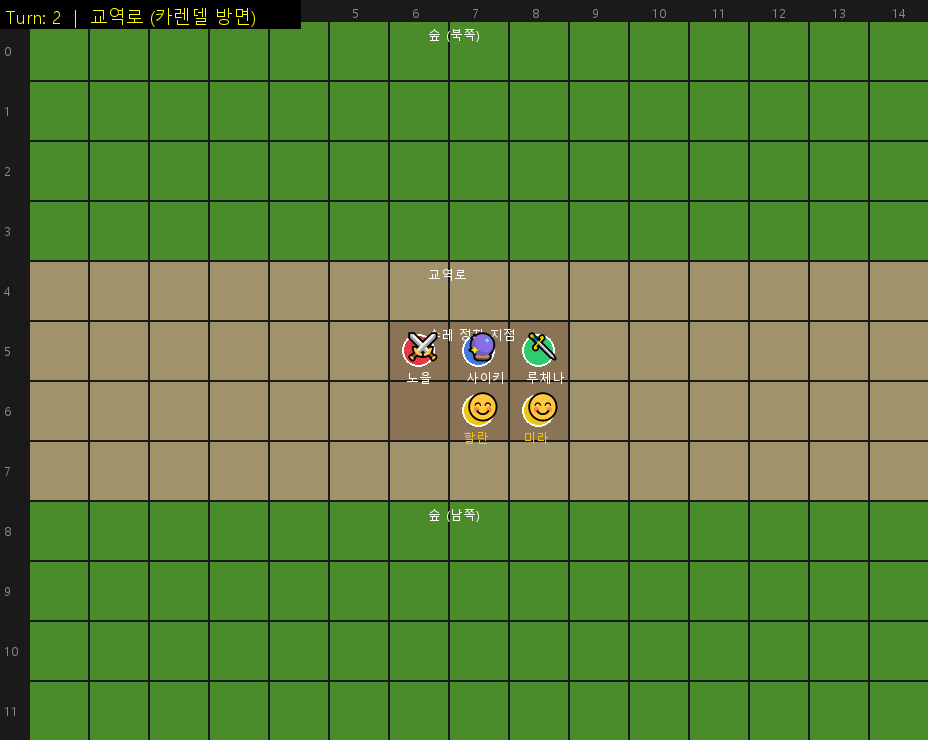
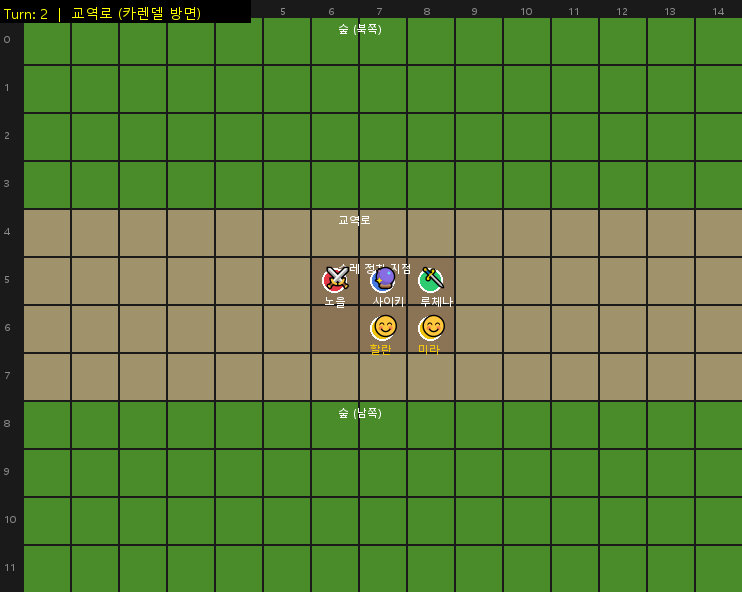
fix: 맵 타일 48px + 미니맵 반경 4 + 아이콘/폰트 축소

diff --git a/map_generator.py b/map_generator.py
@@ -17,7 +17,7 @@ font_paths_global = [
 
 class MapGenerator:
     def __init__(self):
-        self.tile_size = 60
+        self.tile_size = 48
         self.map_width = 20
         self.map_height = 15
         self.img_width = self.map_width * self.tile_size
@@ -54,8 +54,8 @@ class MapGenerator:
             map_h = state["map"]["height"]
             locations = state["map"]["locations"]
 
-        margin_left = 28   # 세로 좌표 표시 여백
-        margin_top = 20    # 가로 좌표 표시 여백
+        margin_left = 22   # 세로 좌표 표시 여백
+        margin_top = 16    # 가로 좌표 표시 여백
         grid_w = map_w * self.tile_size
         grid_h = map_h * self.tile_size
         img_w = grid_w + margin_left
@@ -67,7 +67,7 @@ class MapGenerator:
         coord_font = ImageFont.load_default()
         for fp in font_paths_global:
             try:
-                coord_font = ImageFont.truetype(fp, 12)
+                coord_font = ImageFont.truetype(fp, 10)
                 break
             except (OSError, IOError):
                 continue
@@ -115,8 +115,8 @@ class MapGenerator:
         font = font_small = ImageFont.load_default()
         for fp in font_paths_global:
             try:
-                font = ImageFont.truetype(fp, 18)
-                font_small = ImageFont.truetype(fp, 13)
+                font = ImageFont.truetype(fp, 14)
+                font_small = ImageFont.truetype(fp, 11)
                 break
             except (OSError, IOError):
                 continue
@@ -124,7 +124,7 @@ class MapGenerator:
         # Emoji font for entity icons
         emoji_font = None
         try:
-            emoji_font = ImageFont.truetype("C:/Windows/Fonts/seguiemj.ttf", 26)
+            emoji_font = ImageFont.truetype("C:/Windows/Fonts/seguiemj.ttf", 20)
         except (OSError, IOError):
             pass
 
@@ -165,15 +165,15 @@ class MapGenerator:
                 color = "#95a5a6"
                 label_color = "#95a5a6"
 
-            r = 16
+            r = 12
             emoji = npc_emojis.get(npc_type, "\U0001f464")
 
             if emoji_font:
                 draw.ellipse([cx - r, cy - r, cx + r, cy + r], fill=color + "88", outline="white", width=2)
                 try:
-                    draw.text((cx - 13, cy - 13), emoji, font=emoji_font, embedded_color=True)
+                    draw.text((cx - 10, cy - 10), emoji, font=emoji_font, embedded_color=True)
                 except TypeError:
-                    draw.text((cx - 13, cy - 13), emoji, font=emoji_font)
+                    draw.text((cx - 10, cy - 10), emoji, font=emoji_font)
             else:
                 if npc_type == "monster":
                     size = 16
@@ -187,7 +187,7 @@ class MapGenerator:
                     draw.ellipse([cx - r, cy - r, cx + r, cy + r], fill=color, outline="white", width=2)
 
             draw.text(
-                (cx - 15, cy + 18), npc["name"][:4], fill=label_color, font=font_small
+                (cx - 12, cy + 14), npc["name"][:4], fill=label_color, font=font_small
             )
 
         # Draw players with emoji icons
@@ -203,20 +203,20 @@ class MapGenerator:
             cx = px * self.tile_size + self.tile_size // 2 + margin_left
             cy = py * self.tile_size + self.tile_size // 2 + margin_top
             color = player_colors.get(player["class"], "white")
-            r = 16
+            r = 12
             emoji = player_emojis.get(player["class"], "\u2694\ufe0f")
 
             if emoji_font:
                 draw.ellipse([cx - r, cy - r, cx + r, cy + r], fill=color + "88", outline="white", width=2)
                 try:
-                    draw.text((cx - 13, cy - 13), emoji, font=emoji_font, embedded_color=True)
+                    draw.text((cx - 10, cy - 10), emoji, font=emoji_font, embedded_color=True)
                 except TypeError:
-                    draw.text((cx - 13, cy - 13), emoji, font=emoji_font)
+                    draw.text((cx - 10, cy - 10), emoji, font=emoji_font)
             else:
                 draw.ellipse([cx - r, cy - r, cx + r, cy + r], fill=color, outline="white", width=3)
 
             draw.text(
-                (cx - 12, cy + r + 2),
+                (cx - 10, cy + r + 2),
                 player["name"][:3],
                 fill="white",
                 font=font_small,
@@ -233,8 +233,8 @@ class MapGenerator:
         info_text = f"Turn: {turn}"
         if loc_name:
             info_text += f"  |  {loc_name}"
-        draw.rectangle([0, 0, max(300, len(info_text) * 11), 28], fill="#00000088")
-        draw.text((6, 4), info_text, fill="yellow", font=font)
+        draw.rectangle([0, 0, max(250, len(info_text) * 9), 22], fill="#00000088")
+        draw.text((4, 3), info_text, fill="yellow", font=font)
 
         return img
 
@@ -267,7 +267,7 @@ class MapGenerator:
         avg_y = sum(p[1] for p in positions) / len(positions)
 
         # 주변 반경 (타일 단위)
-        radius = 5
+        radius = 4
         margin_left = 36
         margin_top = 28
 
@@ -899,7 +899,7 @@ class MapGenerator:
             ctx.set_source_rgba(1, 0.95, 0.5, 0.5)
             ctx.save()
             ctx.translate(gx + 4, gy + 4)
-            ctx.scale(6, 4)
+            ctx.scale(4, 3)
             ctx.arc(0, 0, 1, 0, 2 * math.pi)
             ctx.restore()
             ctx.stroke()
